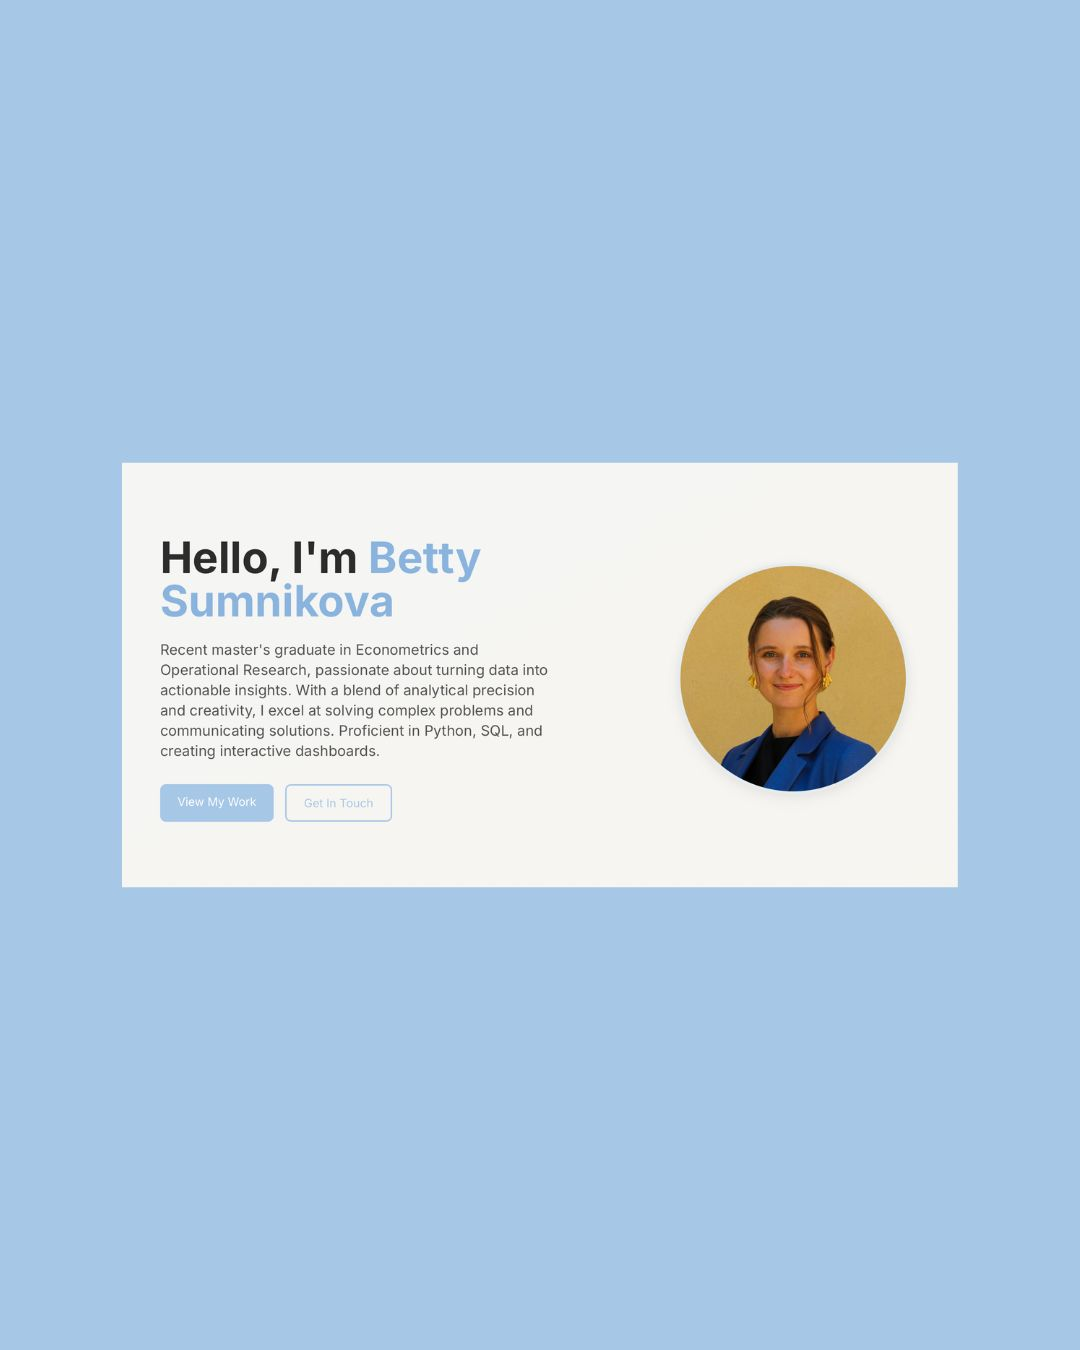
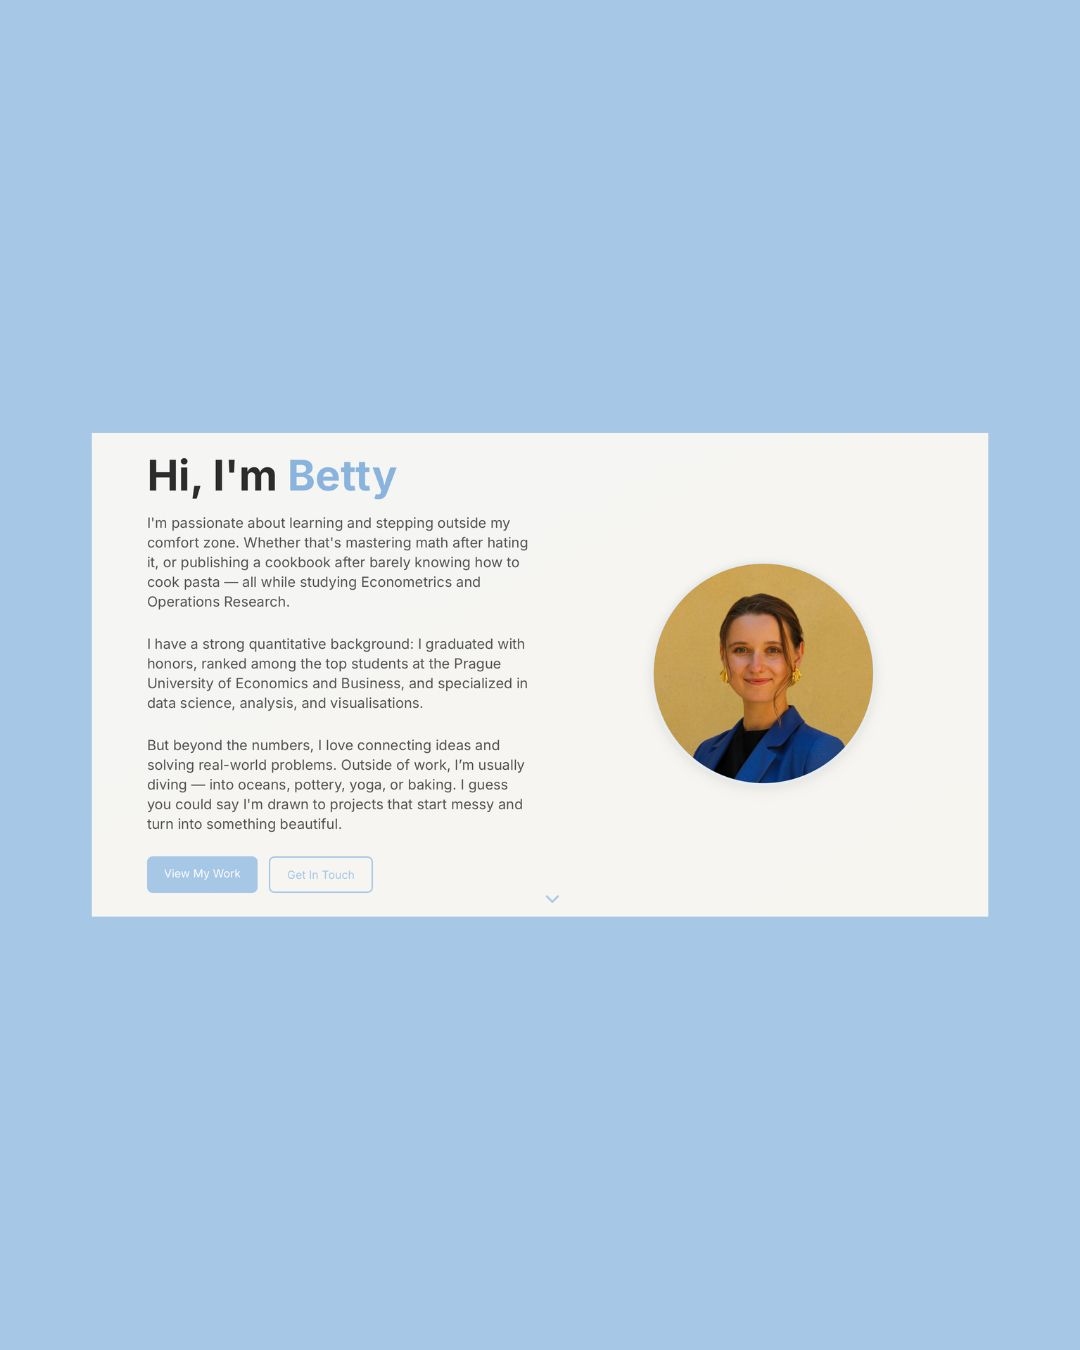
Updated the text and changed project photo

Changed region(s): [[0.0611, 0.3111, 0.9167, 0.6844], [0.5806, 0.4044, 0.8556, 0.5911]]

diff --git a/src/components/BeyondSection.tsx b/src/components/BeyondSection.tsx
@@ -66,7 +66,7 @@ const hobbies: Activity[] = [
       '/assets/images/beyond/travel/gallery8-placeholder.png',
       '/assets/images/beyond/travel/gallery9-placeholder.png'
     ],
-    longDescription: 'My travels have been a journey of self-discovery and growth. From walking the Camino de Santiago to learning to dive, each experience has taught me valuable lessons about perseverance, resilience, and embracing new challenges. I\'ve gained a greater appreciation for the nature around us, whether night swimming with bioluminescent plankton, camping in the desert in Morocco, or hiking through Kyrgyzstan\'s mountains. Travel has deepened my understanding of different cultures and perspectives, especially during my time living with a family in Cambodia. I also love capturing these moments through photography, as a way to remind myself of the beauty in the world.'
+    longDescription: 'My travels have been a journey of self-discovery and growth. From walking the Camino de Santiago to learning to dive, each experience has taught me valuable lessons about perseverance, resilience, and embracing new challenges. I\'ve gained a greater appreciation for the nature around us, whether night swimming with bioluminescent plankton in Costa Rica, camping in the desert in Morocco, or hiking through Kyrgyzstan\'s mountains. Travel has deepened my understanding of different cultures and perspectives, especially during my time living with a family in Cambodia. I also love capturing these moments through photography, as a way to remind myself of the beauty in the world.'
   },
   {
     title: 'Creativity',
@@ -83,7 +83,7 @@ const hobbies: Activity[] = [
       '/assets/images/beyond/creativity/gallery8-placeholder.png',
       '/assets/images/beyond/creativity/gallery9-placeholder.PNG'
     ],
-    longDescription: 'I\'ve always believed in taking my hobbies to the next level, finding purpose and meaning in everything I do. My journey into pottery began with the quest for the perfect coffee mug. When I couldn\'t find one, I decided to learn how to throw on a wheel, trim, glaze, and perfect the design, eventually creating over 60 of my own mugs. Yoga, which started as a personal practice, inspired me to become a certified instructor through Yoga Alliance (200-hour certification).\n\nMy love for baking eventually led me to write a cookbook and also to the joy of creating cakes for special occasions like birthdays and weddings. Recently, I\'ve delved into watercolors, blending this new passion with my other ones. I enjoy painting small sketches during my travels, and I got to illustrate my cookbook as well. These creative outlets are more than just hobbies for me, they\'re a way to express myself and continually grow.'
+    longDescription: 'I\'ve always believed in taking my hobbies to the next level, finding purpose and meaning in everything I do. My journey into pottery began with the quest for the perfect coffee mug. When I couldn\'t find one, I decided to learn how to throw on a wheel, trim, glaze, and perfect the design, eventually creating over 60 of my own mugs. Yoga, which started as a personal practice, inspired me to become a certified instructor through Yoga Alliance (200-hour certification).\n\nMy love for baking eventually led me to write a cookbook and also to the joy of creating cakes for special occasions like birthdays and weddings. Recently, I\'ve gotten into watercolors, blending this new passion with my other ones. I enjoy painting small sketches during my travels, and I got to illustrate my cookbook as well. These creative outlets are more than just hobbies for me, they\'re a way to express myself and continually grow.'
   }
 ];
 

diff --git a/src/components/HomeSection.tsx b/src/components/HomeSection.tsx
@@ -16,10 +16,16 @@ const HomeSection = () => {
         <div className="flex flex-col md:flex-row items-center gap-12 max-w-6xl mx-auto">
           <div className="flex-1">
             <h1 className="text-4xl md:text-6xl font-bold mb-6">
-              Hello, I'm <span className="text-accent-dark">Betty Sumnikova</span>
+              Hi, I'm <span className="text-accent-dark">Betty</span>
             </h1>
             <p className="text-lg md:text-xl text-text/80 leading-relaxed mb-8">
-              Recent master's graduate in Econometrics and Operational Research, passionate about turning data into actionable insights. With a blend of analytical precision and creativity, I excel at solving complex problems and communicating solutions. Proficient in Python, SQL, and creating interactive dashboards.
+              I'm passionate about learning and stepping outside my comfort zone. Whether that's mastering math after hating it, or publishing a cookbook after barely knowing how to cook pasta — all while studying Econometrics and Operations Research.
+            </p>
+            <p className="text-lg md:text-xl text-text/80 leading-relaxed mb-8">
+              I have a strong quantitative background: I graduated with honors, ranked among the top students at the Prague University of Economics and Business, and specialized in data science, analysis, and visualisations.
+            </p>
+            <p className="text-lg md:text-xl text-text/80 leading-relaxed mb-8">
+              But beyond the numbers, I love connecting ideas and solving real-world problems. Outside of work, I’m usually diving — into oceans, pottery, yoga, or baking. I guess you could say I'm drawn to projects that start messy and turn into something beautiful.
             </p>
             <div className="flex flex-wrap gap-4">
               <a
